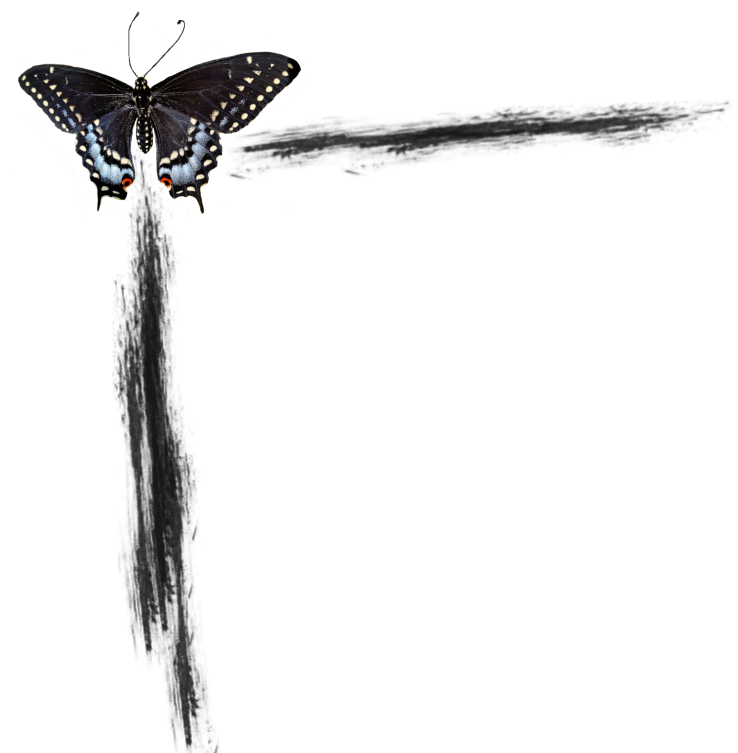
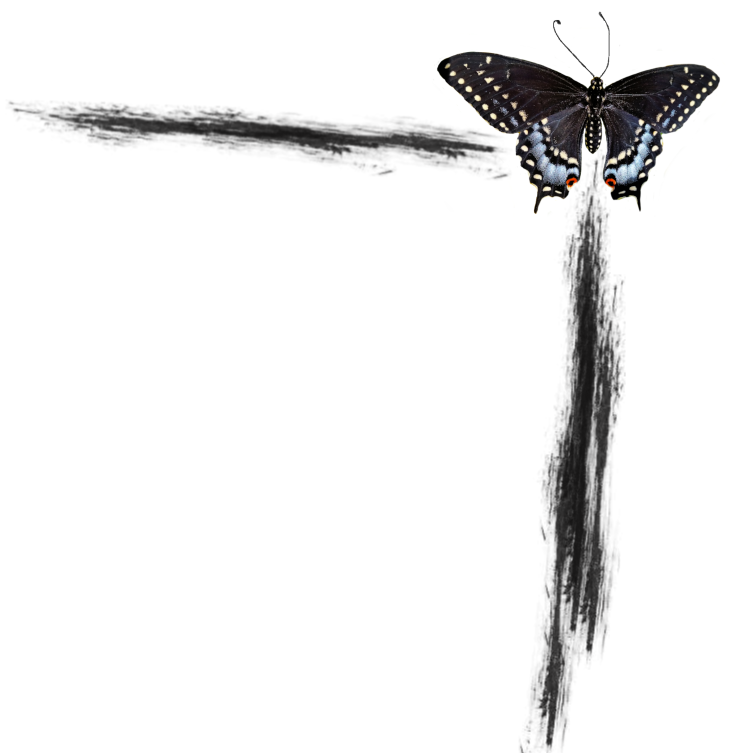
butterfly frame up and about bees adjusted to page

Changed region(s): [[0.0, 0.0611, 0.9973, 1.0]]

diff --git a/src/components/Auth/Auth.js b/src/components/Auth/Auth.js
@@ -1,6 +1,7 @@
 import React from 'react';
 import PropTypes from 'prop-types';
 import header from '../../images/Header.png';
+import BlackSwallowtailBorder from '../../images/BlackSwallowtailBorder.png';
 import aboutBees from '../../images/AboutBees.png';
 import aboutButterflies from '../../images/AboutButterflies.png';
 import authRequests from '../../helpers/data/authRequests';
@@ -23,48 +24,37 @@ class Auth extends React.Component {
   render() {
     return (
       <div className="Auth row">
-          <img src={header} alt='frame' className='header-div justify-content-start'></img>
-        <div className='about-container d-flex justify-content-start mx-2'>
-          <div className='outer-container'>
-            <div className='inner-container'>
-              <div className='about-scroll mx-2'>
-                Specific gardening has become a popular venture in the past few years. Due to the lack of our population in honey bees and Monarchs, most avid and naive gardeners have taken on the challenege to help out. Discovery Schools and other education sources have asked for donations of flower seeds that will feed these fuzzy and delicate friends. As a horticulturist myself, who had the pleasure of working in the field for several years, I was able to encounter the everyday gardener that wanted to do their part. And as the years have gone forth, I have noticed the decline of bees and butterflies myself. This past spring and summer of 2018 was perhaps one of the least active seasons I have seen in quite a while. My own population of Eastern Black Swallowtail butterflies and Monarchs were drastically low. My lavendar is always buzzing away with Bumble and Honey bees; though, it was lack luster and almost vacant. A large concern was the unknown Monarch disease that was killing the Monarch during it's chyrisalis(sp) stage. Most entymologist were unsure of it's causes and considering our friendly orange and black dotted little guys are on the verge of extinction... I have had my share of losses and to be honest, I'm quite sick of losing my many legged and winged buddies. It was more than enough of a push to do a page dedicated to them.
+        <img src={header} alt='header' className='header-div justify-content-start'></img>
+        <div className='about-container'>
+          <div className='about-descrip d-flex flex-col'>
+            Specific gardening has become a popular venture in the past few years. Due to the lack of our population in honey bees and Monarchs, most avid and naive gardeners have taken on the challenege to help out. Discovery Schools and other education sources have asked for donations of flower seeds that will feed these fuzzy and delicate friends. As a horticulturist myself, who had the pleasure of working in the field for several years, I was able to encounter the everyday gardener that wanted to do their part. And as the years have gone forth, I have noticed the decline of bees and butterflies myself. This past spring and summer of 2018 was perhaps one of the least active seasons I have seen in quite a while. My own population of Eastern Black Swallowtail butterflies and Monarchs were drastically low. My lavendar is always buzzing away with Bumble and Honey bees; though, it was lack luster and almost vacant. A large concern was the unknown Monarch disease that was killing the Monarch during it's chyrisalis(sp) stage. Most entymologist were unsure of it's causes and considering our friendly orange and black dotted little guys are on the verge of extinction... I have had my share of losses and to be honest, I'm quite sick of losing my many legged and winged buddies. It was more than enough of a push to do a page dedicated to them.
 
-                Another large factor and concern was the mosquito outbreak that caused pest management companies and local governments to spray nonselective pesticides to get rid of the disease concern. This reduced the population of a lot of major species of butterflies and bees. So what happens when these guys are gone? What do you think about hand painting pollen on a plant's female stigma from the male's anther? It's to get food, of course, because the natural pollinators that we have are all dead. Sounds good right? One of the main reasons we have squash are due to bees, for instance. Wonder why your squash plant wasn't producing? Yep. That's one of the main reasons.
+            Another large factor and concern was the mosquito outbreak that caused pest management companies and local governments to spray nonselective pesticides to get rid of the disease concern. This reduced the population of a lot of major species of butterflies and bees. So what happens when these guys are gone? What do you think about hand painting pollen on a plant's female stigma from the male's anther? It's to get food, of course, because the natural pollinators that we have are all dead. Sounds good right? One of the main reasons we have squash are due to bees, for instance. Wonder why your squash plant wasn't producing? Yep. That's one of the main reasons.
             </div>
-            </div>
-          </div>
+          <img src={BlackSwallowtailBorder} alt='frame' className='butterfly-frame justify-content-end'></img>
         </div>
-        <ul className='about-bee-header'>
-        <img src={aboutBees} alt='frame' className='aboutBees-div justify-content-start'></img>
+        <ul className='about-bee-header col-3 p-2'>
+          <img src={aboutBees} alt='frame' className='aboutBees-div'></img>
         </ul>
-        <div className='about-bee-container d-flex justify-content-start mx-2'>
-          <div className='outer-bee-container'>
-            <div className='inner-bee-container'>
-              <div className='about-bee-scroll mx-2'>
-                Bees are an important part of our life, our world. If it wasn't for these buzzing creatures, our food chain would be quite different than what we see today. Alot of people take bees for granted or don't even care about them. The fear of being stung causes many to straight out kill them or flee from them. They don't approach and admire the insect, they prefer to acknolwedge that it's dangerous and to ignore it. All bees are defensive and not aggressive (like wasps and hornets are). They will only feel pressured to attack if you give them reason to do so, like many other wild animals in nature. If you're not swatting at them with a tennis racket or a shoe, they won't feel inclined to defend themselves. Your presence is not enough for them to feel the need to come at you. In fact, Carpenter bees, the ones that resemble Bumbles and have white dots on their heads, do not sting. They will buzz around you happily as they harvest food. Though, they can be a nuisance when they're drilling into your front porch. Also, most Bumblebees that you see flying around are males. Females do not do the majority of the work, since they're kept for creating new generations. They are the only ones with stingers and the capability of doing harm if they have to -- again if they have to.
+      <div className='about-bee-container row align-items-end mx-2'>
+        <div className='about-bee-descrip col-7'>
+          Bees are an important part of our life, our world. If it wasn't for these buzzing creatures, our food chain would be quite different than what we see today. Alot of people take bees for granted or don't even care about them. The fear of being stung causes many to straight out kill them or flee from them. They don't approach and admire the insect, they prefer to acknolwedge that it's dangerous and to ignore it. All bees are defensive and not aggressive (like wasps and hornets are). They will only feel pressured to attack if you give them reason to do so, like many other wild animals in nature. If you're not swatting at them with a tennis racket or a shoe, they won't feel inclined to defend themselves. Your presence is not enough for them to feel the need to come at you. In fact, Carpenter bees, the ones that resemble Bumbles and have white dots on their heads, do not sting. They will buzz around you happily as they harvest food. Though, they can be a nuisance when they're drilling into your front porch. Also, most Bumblebees that you see flying around are males. Females do not do the majority of the work, since they're kept for creating new generations. They are the only ones with stingers and the capability of doing harm if they have to -- again if they have to.
 
-                Bees are fascinating creatures. Honey bees can travel up to 3 miles away from their hives. It's important for us to plant flowers for them in our gardens, too. Just because we don't have hives, doesn't mean that we can't help out.
+          Bees are fascinating creatures. Honey bees can travel up to 3 miles away from their hives. It's important for us to plant flowers for them in our gardens, too. Just because we don't have hives, doesn't mean that we can't help out.
             </div>
-            </div>
-          </div>
-        </div>
-        <ul className='about-butter-header'>
-        <img src={aboutButterflies} alt='frame' className='aboutButterflies-div justify-content-start'></img>
-        </ul>
-        <div className='about-butter-container d-flex justify-content-start mx-2'>
-          <div className='outer-butter-container'>
-            <div className='inner-butter-container'>
-              <div className='about-butter-scroll mx-2'>
-              Lorem ipsum dolar sit amet accusantium iste quae eaque ipsa sit magni aspernatur accusantium doloremque veritatis ab ipsam ipsam, rem nemo inventore nemo quia ipsam aut rem quia sed dicta aspernatur .Lorem ipsum dolar sit amet accusantium iste quae eaque ipsa sit magni aspernatur accusantium doloremque veritatis ab ipsam ipsam, rem nemo inventore nemo quia ipsam aut rem quia sed dicta aspernatur .Lorem ipsum dolar sit amet accusantium iste quae eaque ipsa sit magni aspernatur accusantium doloremque veritatis ab ipsam ipsam, rem nemo inventore nemo quia ipsam aut rem quia sed dicta aspernatur .Lorem ipsum dolar sit amet accusantium iste quae eaque ipsa sit magni aspernatur accusantium doloremque veritatis ab ipsam ipsam, rem nemo inventore nemo quia ipsam aut rem quia sed dicta aspernatur .Lorem ipsum dolar sit amet accusantium iste quae eaque ipsa sit magni aspernatur accusantium doloremque veritatis ab ipsam ipsam, rem nemo inventore nemo quia ipsam aut rem quia sed dicta aspernatur .Lorem ipsum dolar sit amet accusantium iste quae eaque ipsa sit magni aspernatur accusantium doloremque veritatis ab ipsam ipsam, rem nemo inventore nemo quia ipsam aut rem quia sed dicta aspernatur .Lorem ipsum dolar sit amet accusantium iste quae eaque ipsa sit magni aspernatur accusantium doloremque veritatis ab ipsam ipsam, rem nemo inventore nemo quia ipsam aut rem quia sed dicta aspernatur .Lorem ipsum dolar sit amet accusantium iste quae eaque ipsa sit magni aspernatur accusantium doloremque veritatis ab ipsam ipsam, rem nemo inventore nemo quia ipsam aut rem quia sed dicta aspernatur .
-            </div>
-            </div>
-          </div>
-        </div>
-        <ul className='d-flex align-self-end'>
-        <button className="btn btn-info mx-2 d-flex justify-content-end" onClick={this.authenticateUser}>Login To View Plants & Create A Garden</button>
-        </ul>
       </div>
+      <ul className='about-butter-header col-6 mx-2'>
+        <img src={aboutButterflies} alt='frame' className='aboutButterflies-div justify-content-start'></img>
+      </ul>
+      <div className='about-butter-container col-lg-6'>
+        <div className='about-butter-descrip d-flex flex-column mx-2'>
+          Lorem ipsum dolar sit amet accusantium iste quae eaque ipsa sit magni aspernatur accusantium doloremque veritatis ab ipsam ipsam, rem nemo inventore nemo quia ipsam aut rem quia sed dicta aspernatur .Lorem ipsum dolar sit amet accusantium iste quae eaque ipsa sit magni aspernatur accusantium doloremque veritatis ab ipsam ipsam, rem nemo inventore nemo quia ipsam aut rem quia sed dicta aspernatur .Lorem ipsum dolar sit amet accusantium iste quae eaque ipsa sit magni aspernatur accusantium doloremque veritatis ab ipsam ipsam, rem nemo inventore nemo quia ipsam aut rem quia sed dicta aspernatur .Lorem ipsum dolar sit amet accusantium iste quae eaque ipsa sit magni aspernatur accusantium doloremque veritatis ab ipsam ipsam, rem nemo inventore nemo quia ipsam aut rem quia sed dicta aspernatur .Lorem ipsum dolar sit amet accusantium iste quae eaque ipsa sit magni aspernatur accusantium doloremque veritatis ab ipsam ipsam, rem nemo inventore nemo quia ipsam aut rem quia sed dicta aspernatur .Lorem ipsum dolar sit amet accusantium iste quae eaque ipsa sit magni aspernatur accusantium doloremque veritatis ab ipsam ipsam, rem nemo inventore nemo quia ipsam aut rem quia sed dicta aspernatur .Lorem ipsum dolar sit amet accusantium iste quae eaque ipsa sit magni aspernatur accusantium doloremque veritatis ab ipsam ipsam, rem nemo inventore nemo quia ipsam aut rem quia sed dicta aspernatur .Lorem ipsum dolar sit amet accusantium iste quae eaque ipsa sit magni aspernatur accusantium doloremque veritatis ab ipsam ipsam, rem nemo inventore nemo quia ipsam aut rem quia sed dicta aspernatur .
+            </div>
+      </div>
+      <ul className='d-flex align-self-end'>
+        <button className="btn btn-info mx-2 d-flex justify-content-end" onClick={this.authenticateUser}>Login To View Plants & Create A Garden</button>
+      </ul>
+      </div >
     );
   }
 }

diff --git a/src/components/Auth/Auth.scss b/src/components/Auth/Auth.scss
@@ -1,41 +1,21 @@
-.about-scroll, .outer-container {
-  height: 350px;
-  width: 800px;
-  border-radius: 10px;
- }      
- 
- .about-bee-scroll, .outer-bee-container {
-   height: 200px;
-   width: 500px;
-   border-radius: 10px;
- }
+.about-container {
+  height: 400px;
+  width: auto;
+  text-align: justify-content;
+  margin: 5%;
+}   
 
- .about-butter-scroll, .outer-butter-container {
-  height: 200px;
-  width: 500px;
-  border-radius: 10px;
+.about-bee-header {
+  margin: left;
+  margin-top: -4%;
 }
 
- .outer-container, .outer-bee-container, .outer-butter-container {
-  object-fit: contain;
-  position: relative;
-  overflow: hidden;
-  border: 1px solid black;
- }
+.about-bee-descrip {
+  margin-top: -2%;
+  margin-left: 3%;
+  text-align: justify;
+}
 
- .inner-container, .inner-bee-container, .inner-butter-container {
-  position: absolute;
-  left: 0;
-  overflow-x: hidden;
-  overflow-y: scroll;
- }
-
- .inner-container::-webkit-scrollbar, .inner-bee-container::-webkit-scrollbar, .inner-butter-container::-webkit-scrollbar{
-  display: none;
- }
-
- .about-container, .about-bee-container, .about-butter-container {
-  display: flex;
-  flex-direction: row;
-  justify-content: center;
- }
+.butterfly-frame {
+  z-index: -1;
+}
